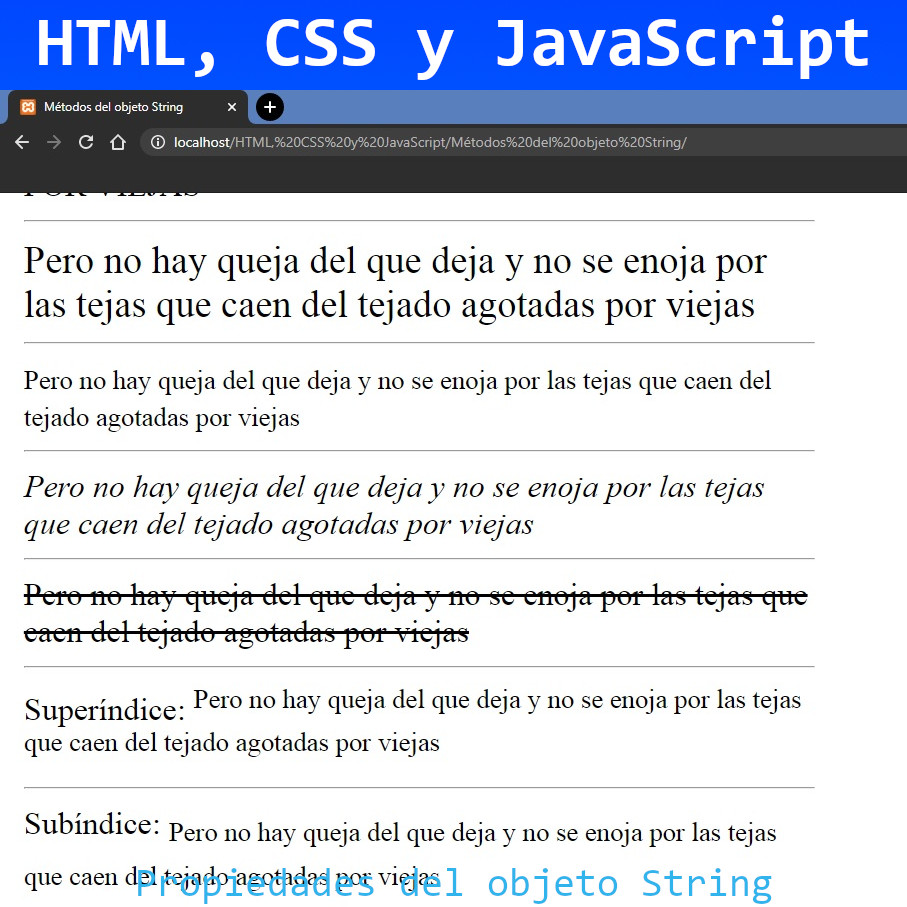
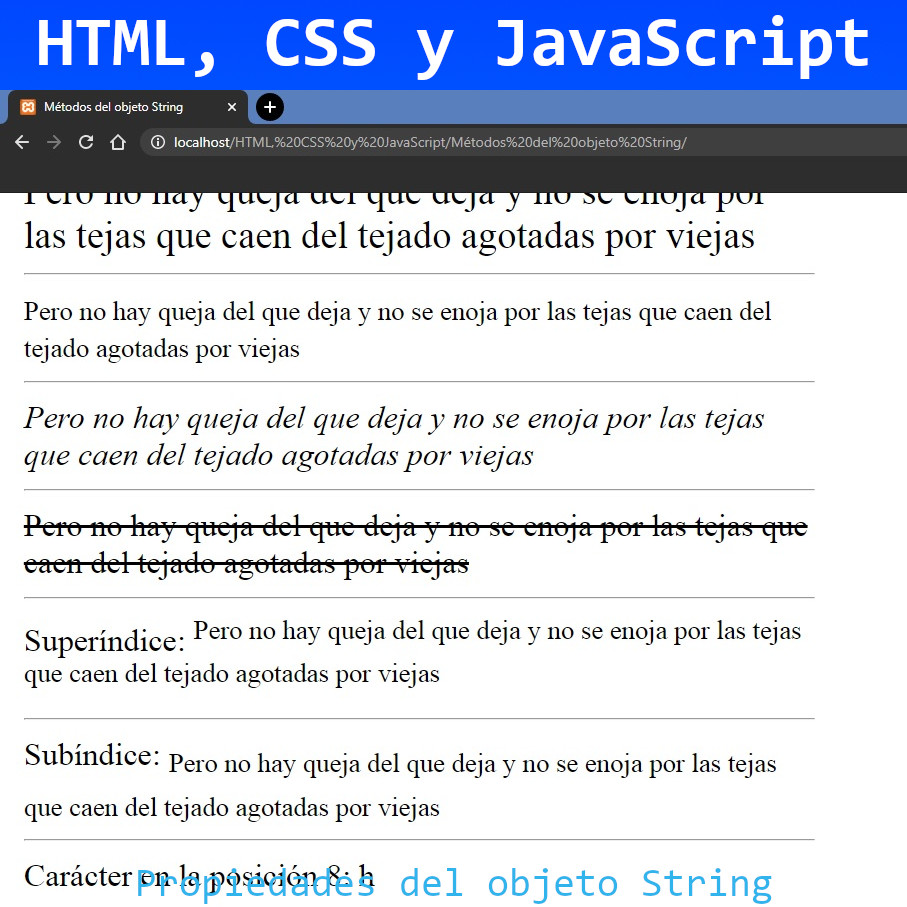
Métodos del objeto String
Métodos del objeto String en JavaScript

Changed region(s): [[0.0309, 0.2161, 0.8953, 0.9261], [0.0309, 0.957, 0.4939, 0.9879]]

diff --git a/HTML, CSS y JavaScript/Métodos del objeto String/js/funciones.js b/HTML, CSS y JavaScript/Métodos del objeto String/js/funciones.js
@@ -84,3 +84,10 @@ var sub = cadena.sub();
 document.write("Subíndice: "+sub);
 // SALTO DE LÍNEA
 document.write("<hr>");
+// ENCONTRAR CARÁCTER
+// declarar variable
+var encontrar = cadena.charAt(8);
+// MOSTRAR EN PANTALLA
+document.write("Carácter en la posición 8: "+encontrar);
+// SALTO DE LÍNEA
+document.write("<hr>");
